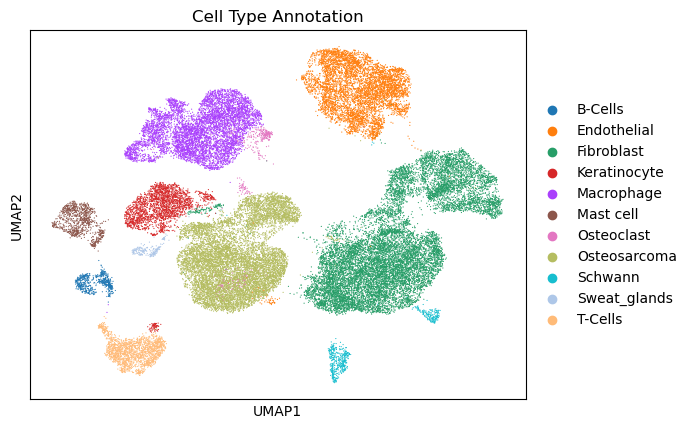
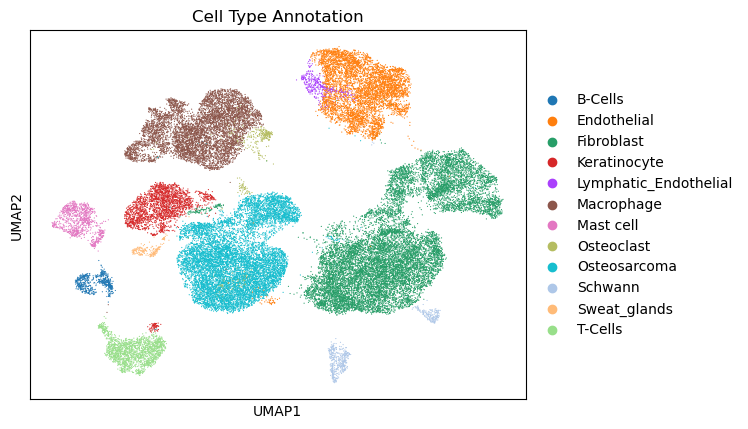
Update annotations to add another missing celltype

diff --git a/README.md b/README.md
@@ -229,12 +229,12 @@ From the dotplot and feature plots,
 
 ### Preliminary Annotations 
 
-![](figures/umap_combined_celltypeON.png?v=11) 
+![](figures/umap_combined_celltypeON.png?v=12) 
 
-![](figures/umap_combined_celltype.png?v=11)
+![](figures/umap_combined_celltype.png?v=12)
 
 
-# From here requires re-running -- ocming soon 
+# From here requires re-running -- coming soon 
 ### Now lets subset Fibroblast from GSE135985 and Osteosarcoma from AXT 
 
 ## Celltype Composition by Sample
